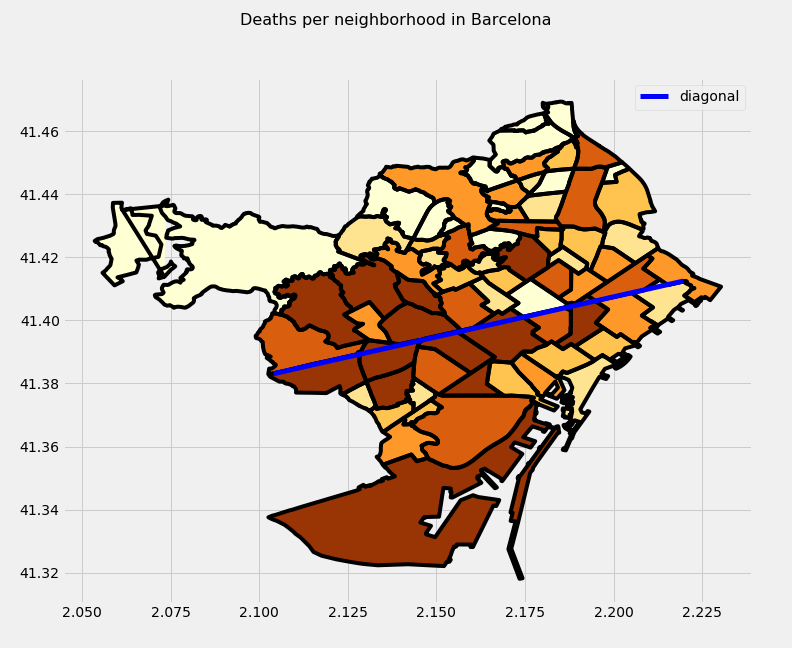
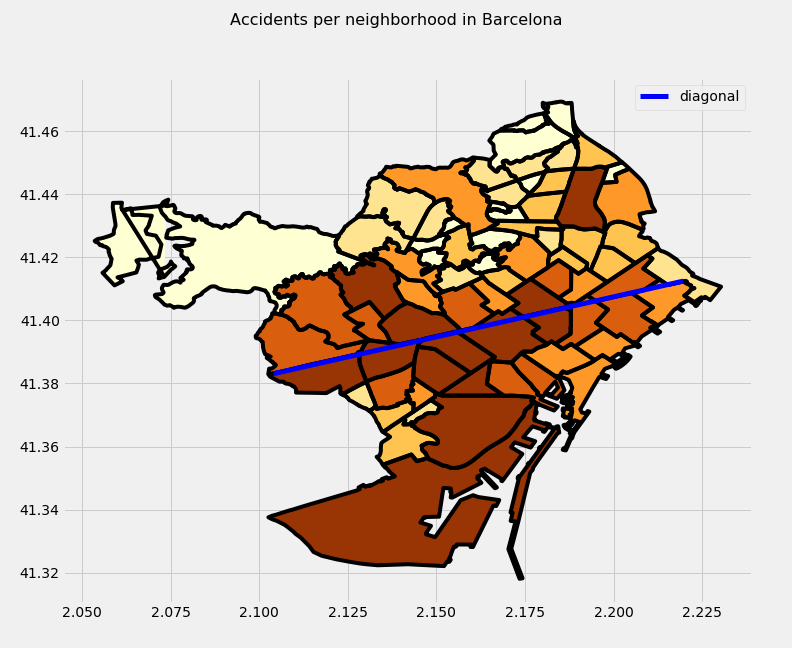
Acabant amb barris

Changed region(s): [[0.4545, 0.216, 0.9091, 0.7407], [0.303, 0.0, 0.697, 0.0617], [0.3333, 0.4012, 0.4848, 0.5556]]

diff --git a/_posts/2017-1-1-Hello-World.md b/_posts/2017-1-1-Hello-World.md
@@ -109,11 +109,11 @@ What I realized about Barcelona is that the Eixample district is the one that ha
 
 * Neighborhood
 
-Things change only a little bit when we talk about neighborhoods. The first important change is the number of neighborhoods that is 74 instead of 10 districts. First, we will take a look at the accidents. and almost immediately two thing jump out:and deaths by neighborhood plus its ratio (with the last one things get really interesting).
+Things change only a little bit when we talk about neighborhoods. The first important change is the number of neighborhoods that is 74 instead of 10 districts. First, we will take a look at the accidents.
 
 ![shapefile_neighborhood_acc](/images/shapefile_neighborhood_acc.png)
 
- There are two things that jump out: 1. What a hell is doing that red neighborhood in the middle? Sant Andreu neighborhood. 2. Do the dark area in most neighborhoodsfollows Diagonal Avenue? I decided to draw Diagonal on top of the map to confirm it.
+ There are two things that jump out: 1. What a hell is doing that red neighborhood in the middle? Sant Andreu neighborhood. 2. Do the dark area in most neighborhoods follow Diagonal Avenue? I decided to draw Diagonal on top of the map to confirm it.
 
  ![shapefile_neighborhood_diagonal](/images/accidents_diagonal_2018.png)
 
@@ -122,7 +122,35 @@ Things change only a little bit when we talk about neighborhoods. The first impo
 ![shapefile_neighborhood_dea](/images/shapefile_neighborhood_deaths.png)|![shapefile_neighborhood_ratio](/images/shapefile_neighborhood_ratio.png)|
 
 
-Let's have a look at the top 10 in each category. Once again: the neighborhoods with a ahigher number of accidents and deaths are not (except for exceptions) in the top when we take into consideration the ratio deaths/accidents.
+Let's have a look at the top 10 in each category so we can put a name on them and also ratify what we already know and/or imagine: the neighborhoods with the highest number of accidents and deaths do not have (except for 2 cases) the highest value for the ratio deaths/accidents.
+
+![barchart_neighborhood_deaths_acc_2018](/images/deaths_accidents_per_neighborhood_2018.png)
+
+Here you have the classification by ratio:
+
+![barchart_neighborhood_ratio_2018](/images/ratio_per_neighborhood_2018.png)
+
+I did not want to finish this part without showing( via a python script) how they do barely have any common elements:
+
+"""#How many of ghe neighborhoods with more accidents have also a high rate death/accidents?
+most_accidents = set(neighborhood.sort_values('number_of_accidents', ascending=False).head(10).index)
+most_ratio = set(neighborhood[neighborhood['number_of_accidents'] > 100].sort_values('deaths_per_accident', ascending=False).head(10).index)
+most_deaths = set(neighborhood.sort_values('number_of_deaths', ascending=False).head(10).index)
+def common_member(a, b):
+    a_set = set(a)
+    b_set = set(b)
+    if (a_set & b_set):
+        print(a_set & b_set)
+    else:
+        print("No common elements")
+common_member(most_accidents, most_ratio)
+common_member(most_deaths,most_ratio) """
+
+Being the outcome:
+
+No Common elements
+{'el Guinardo', 'el Putxet i el Farro'}
+
 
 
 
